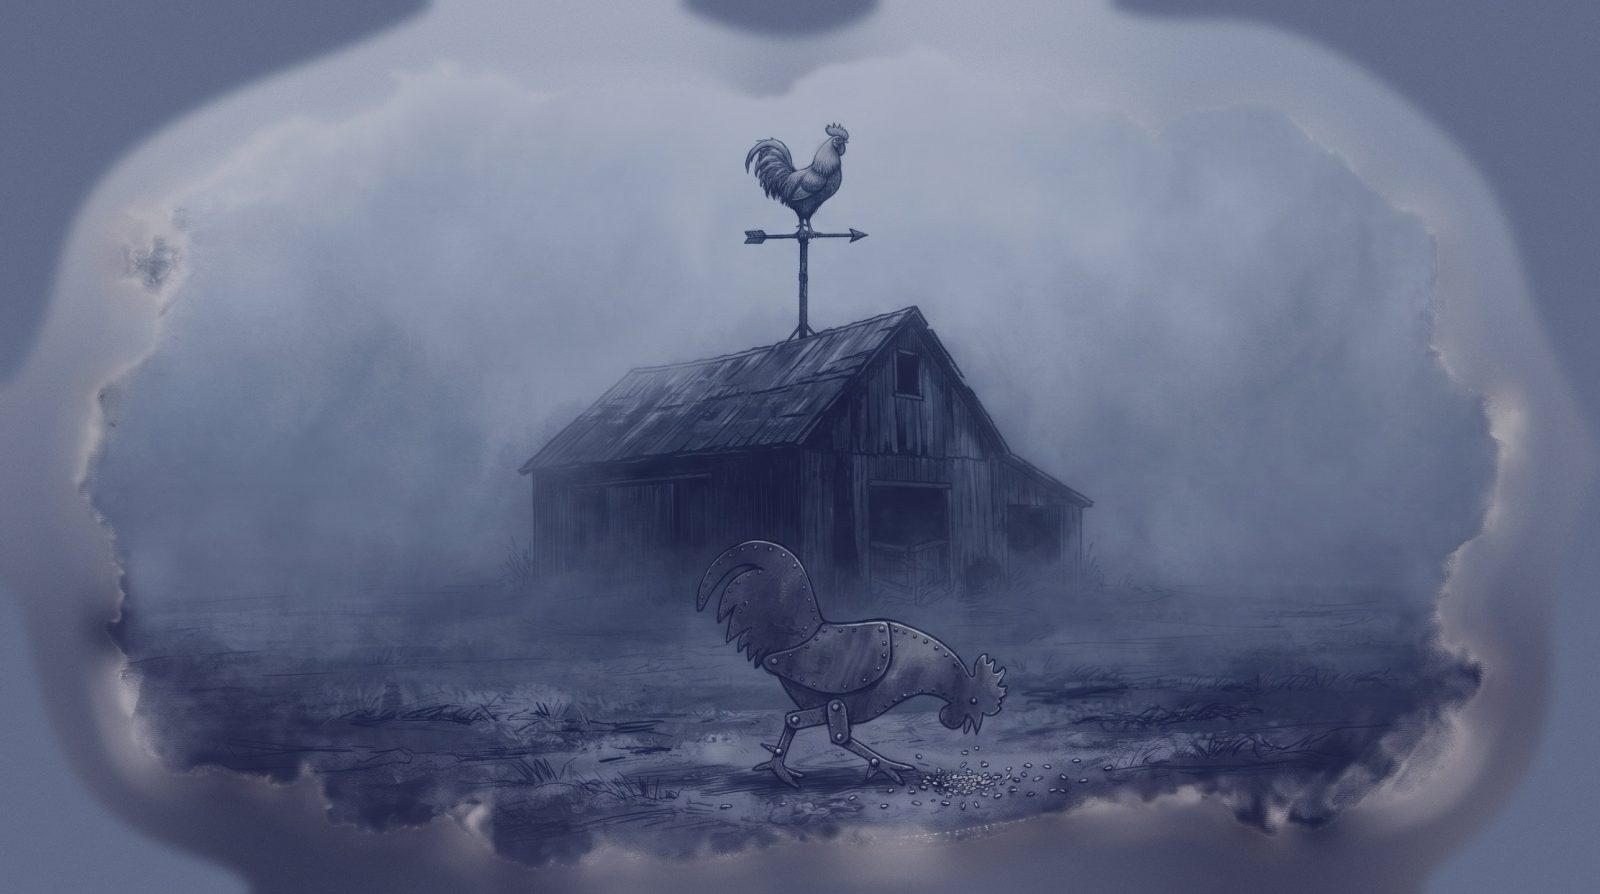
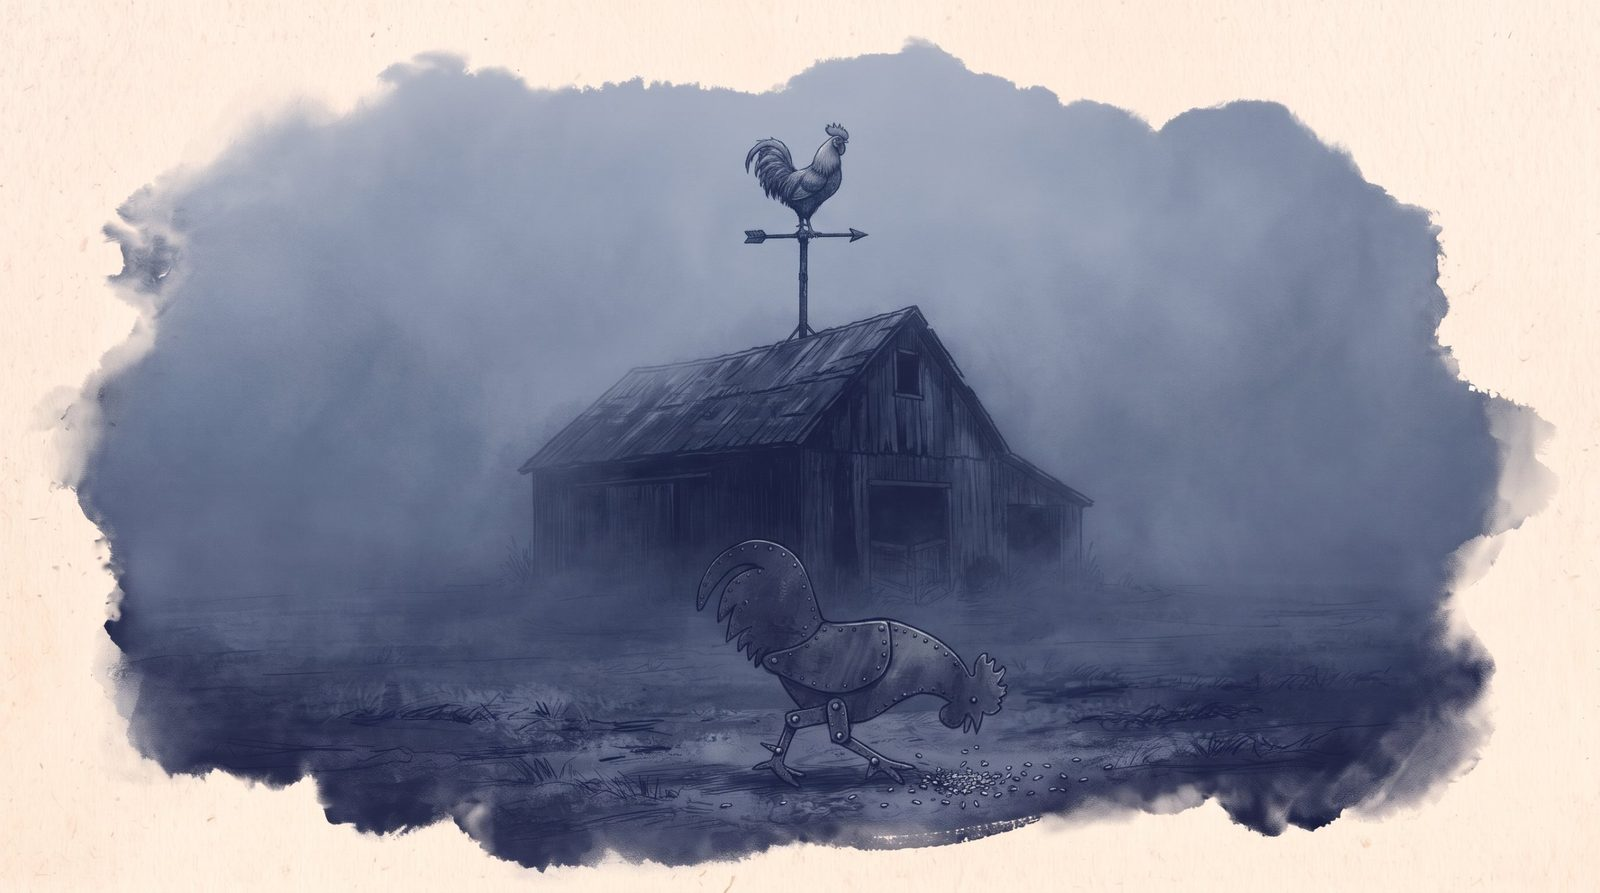
Kopie bez originálu: kohout ve světlém motivu zpět v originále s rozkreslenými okraji, v tmavém varianta -dark.jpg bez krémového lemu
Claude-Session: https://claude.ai/code/session_01B7obWLKHHEWxurZ5a1svnf

diff --git a/src/components/essay/EssayPage.tsx b/src/components/essay/EssayPage.tsx
@@ -35,11 +35,11 @@ type Props = {
   /** Stránka stezky bez schválené eseje: bez doby čtení. */
   pending?: boolean;
   /** Obrázek stezky (zatím jen náhled): široký pás pod hlavičkou, nebo na začátku textu. */
-  hero?: { src: string; alt: string; ink?: string; inkLight?: string; mask?: string };
+  hero?: { src: string; alt: string; dark?: string; ink?: string; inkLight?: string; mask?: string };
   /** Druhý obrázek stezky (náhled): uprostřed textu, před nadpisem nejblíž polovině. */
-  hero2?: { src: string; alt: string; ink?: string; inkLight?: string; mask?: string };
+  hero2?: { src: string; alt: string; dark?: string; ink?: string; inkLight?: string; mask?: string };
   /** Další obrázky stezky (po prvním): rozložené rovnoměrně textem, každý před nadpisem ##. Má přednost před hero2. */
-  heroMore?: { src: string; alt: string; ink?: string; inkLight?: string; mask?: string }[];
+  heroMore?: { src: string; alt: string; dark?: string; ink?: string; inkLight?: string; mask?: string }[];
   /** Skutečná stránka (ne náhled): obrázky jen pod citátem a uprostřed, s maskami. */
   heroLive?: boolean;
 };
@@ -104,7 +104,7 @@ function splitSources(markdown: string): [string, string] {
 }
 
 /** Masky obrázku stezky jako proměnné CSS (fresková maska, v tmavém motivu maska podle tuše). */
-function heroImgProps(h: { ink?: string; inkLight?: string; mask?: string }) {
+function heroImgProps(h: { ink?: string; inkLight?: string; mask?: string }, extraClass?: string) {
   const style: Record<string, string> = {};
   if (h.mask) style['--pv-mask'] = `url("${h.mask}")`;
   if (h.ink) {
@@ -112,7 +112,8 @@ function heroImgProps(h: { ink?: string; inkLight?: string; mask?: string }) {
     // širší maska pro světlý motiv (papír tam multiply schová, maska jen nesmí sníst slabé tahy)
     style['--pv-mask-ink-light'] = `url("${h.inkLight ?? h.ink.replace(/\.png$/, '-light.png')}")`;
   }
-  return { style: style as CSSProperties, className: h.ink ? 'has-ink' : undefined };
+  const cls = [h.ink ? 'has-ink' : '', extraClass ?? ''].filter(Boolean).join(' ');
+  return { style: style as CSSProperties, className: cls || undefined };
 }
 
 export default function EssayPage({ base, markdown, title, kicker, tagline, worlds, trail, pending, hero, hero2, heroMore, heroLive }: Props) {
@@ -310,8 +311,18 @@ export default function EssayPage({ base, markdown, title, kicker, tagline, worl
                       alt={extras[k].alt}
                       decoding="async"
                       loading="lazy"
-                      {...heroImgProps(extras[k])}
+                      {...heroImgProps(extras[k], extras[k].dark ? 'is-light-only' : undefined)}
                     />
+                    {extras[k].dark ? (
+                      <img
+                        className="is-dark-only"
+                        src={extras[k].dark}
+                        alt={extras[k].alt}
+                        decoding="async"
+                        loading="lazy"
+                        style={{ '--pv-mask': `url("${extras[k].mask}")` } as CSSProperties}
+                      />
+                    ) : null}
                   </figure>
                   <ReactMarkdown remarkPlugins={[remarkGfm]} components={mdComponents}>
                     {part}

diff --git a/src/lib/trail-images.ts b/src/lib/trail-images.ts
@@ -8,7 +8,8 @@ import { existsSync, readFileSync } from 'node:fs';
 import { withBase } from './base-url';
 import { TRAIL_SLUGS, type TrailId } from './trails';
 
-export type TrailImage = { src: string; ink?: string; inkLight?: string; mask: string };
+/** dark: volitelná varianta pro tmavý motiv (<soubor>-dark.jpg), když tuš sahá k okraji papíru a krémový lem by v noci prosvítal. */
+export type TrailImage = { src: string; dark?: string; ink?: string; inkLight?: string; mask: string };
 
 /** Putování, která už obrázky mají: počet obrázků (první pod citátem, další rovnoměrně textem). */
 export const READY: Record<TrailId, number> = {
@@ -44,8 +45,10 @@ function versioned(base: string, path: string): string {
 function image(base: string, file: string): TrailImage {
   const ink = `${DIR}/maska/${file.replace(/\.jpg$/, '.png')}`;
   const inkLight = ink.replace(/\.png$/, '-light.png');
+  const dark = `${DIR}/${file.replace(/\.jpg$/, '-dark.jpg')}`;
   return {
     src: versioned(base, `${DIR}/${file}`),
+    dark: existsSync(`public/${dark}`) ? versioned(base, dark) : undefined,
     ink: existsSync(`public/${ink}`) ? versioned(base, ink) : undefined,
     inkLight: existsSync(`public/${inkLight}`) ? versioned(base, inkLight) : undefined,
     mask: withBase(base, `/${DIR}/maska/freska.png`),

diff --git a/src/styles/essay.css b/src/styles/essay.css
@@ -923,3 +923,14 @@ html[data-theme='dark'] .essay-hero--live img.has-ink {
 .essay-hero--mid.essay-hero--live + .essay-chapter {
   margin-top: 0;
 }
+
+/* Obrázek s variantou pro tmavý motiv (<soubor>-dark.jpg, trail-images.ts): ve světlém motivu originál s maskou podle tuše,
+   v tmavém varianta s papírem u okraje přebarveným do mlhy (jinak by krémový lem prosvítal). */
+html[data-theme='dark'] .essay-hero img.is-light-only,
+html:not([data-theme='dark']) .essay-hero img.is-dark-only {
+  display: none;
+}
+
+html[data-theme='dark'] .essay-hero img.is-dark-only {
+  filter: brightness(0.8);
+}

diff --git a/docs/obrazky-putovani.md b/docs/obrazky-putovani.md
@@ -25,7 +25,7 @@ Stav 2026-11-23: styl nalezený po pěti kolech zkoušek (náhled `/putovani/nav
 - Masky: `maska/<slug>-N.png` podle tuše pro tmavý motiv (`python3 scripts/ink-masks.py`, pak zkopírovat z `navrh-obrazku/maska/`, nebo upravit cestu ve skriptu), `maska/freska.png` obecná.
 - Které putování obrázky má: `READY` v `src/lib/trail-images.ts`. Obrázky se ukážou jen u schválené eseje.
 - Rejstřík `/putovani/` má rozvržení karet ve dvou sloupcích s obrázkem nahoře (C, vybráno ze tří variant: A obraz za textem, B střídavé desky). Dokud nemají obrázky všechna putování, stojí vedle karty s obrázkem textové karty.
-- Na webu (2026-11-23): Hra ví, že ji hraješ (městečko na jevišti s roztrženým namalovaným nebem; postavička vylezlá z ilustrace v knize; stín, který vypadl z obrazu na podlahu); Na mrtvole boha (tři: prázdný plášť na trůnu držený provazy davu; trůn, kterým prorůstá bříza; jablko s žebry místo jádřince); Netvor v zrcadle (zatím jeden: stopy ve sněhu, které se z bot mění v tlapy); Mluví už jen mrtví (tři: prázdný kabát, který ukazuje cestu; můra s křídly z deníku; potopená hlava sochy, z níž stoupají listy dopisu k loďce); Uvězněni v kruhu (tři: klíč stočený do kruhu se stínem rovného klíče; vajíčko ve vajíčku; z kouře dohořelé sirky nová sirka); Bohové jako břemeno (katedrála ze žeber, kamenné víčko); Město, které dýchá (domy, které se otáčejí za chodcem; most z dlažby, kořenů, copů a prádla); Dům, ze kterého nejde odejít (měsíc jako zlatá klíčová dírka nad městečkem, okno uprostřed pláně s pokojem uvnitř). Válka, kterou nikdo nevyhraje (tři obrázky: prapory z hejn ptáků, kolotoč z děl, kavalerie z rozbitých hodin se svíčkou v temnu); Pod lhostejnými hvězdami (žebřík opřený o nebe s prázdnými botami a lucernou, gramofon, ze kterého se sypou hvězdy, u táboráku); Kdo za to může? (tři: prázdná rukavice ukazuje na zrcátko a odraz ukazuje zpět na diváka; koberec, pod jehož rohem je jáma se schody a koště z brků; z hranice srolovaných dopisů odplouvá kouř jako spící beránek, 2026-11-25); Kdo se to probudil? (tři: zamlžené zrcadlo nad umyvadlem, v jehož setřeném pruhu je další zrcadlo; dvě stejná křesla v pokoji rozděleném sklem, které prochází mincí na hraně; sklenice s pulcem, jehož stín na zdi jsou chapadla; 2026-11-25); Prokleté dědictví (tři: kolébka s korunou, jejíž stín je rakev, křížek na koruně vyretušovaný; řetěz z praskliny v zemi s otevřeným dětským poutem, hnědý nádech řetězu převedený do indiga; šperkovnice s náhrdelníkem z mléčných zubů; 2026-11-25); Křehká hranice svobodné vůle (tři: koleje shora, které se u výhybky rozdělí a zase spojí kolem kulatého jezírka, takže tvoří oko; prázdný obojek s vodítkem napnutým do mraků; trhací kalendář s prázdnými listy, jeden právě utržený, původně k jinému tématu, majitel ho přidal; 2026-11-25); Ráj, který se nepovedl (tři, poprvé celky místo předmětu, na pokyn majitele velký motiv a paradox: monumentální schodiště, které se v oblouku vrací zpátky do země (titulní, majitel 2026-11-26); nekonečně dlouhý prostřený stůl v poušti, zavátý dunou; vymyšlený zazděný oblouk se sluncem, kolem jehož boku je v dlažbě vyšlapaná pěšina; 2026-11-25); Logo nad troskami (tři, satira: atomový hřib ztuhlý v kancelářskou budovu s otáčecími dveřmi a ostříhaným trávníkem v troskách; hřbitov, kde místo náhrobků stojí parkovací automaty; opuštěný vozík prodavače mraků na provázcích s prázdnými cenovkami pod holým nebem; 2026-11-26); Smích nad propastí (tři: banánová slupka na samé hraně útesu nad propastí; ostnatý plot se strážní věží vyzdobený girlandami a balonky, jeden balonek splasklý na ostnu; prstem nakreslený úsměv na zamlženém okénku bunkru, ze kterého stéká kondenzace; 2026-11-26); Kdo drží kroniku (tři, satira dějin: jezdecká socha bez hlavy, jeřáb spouští novou hlavu a vedle stojí regál s osmi různými náhradními hlavami; stohy na poli ze skartovaného papíru a skartovačka; psací stroj, jehož papír plynule přechází v cestu krajinou, s ukazatelem ve směru papíru (nakonec nová verze od majitele, kde papír na cestu navazuje sám); 2026-11-26); Kopie bez originálu (tři: dva stejné měsíce nad jezerem, které odráží jen jeden, uprostřed (odraz ručně nahrazený zrcadlenou kopií měsíce, aby seděl); pampeliška, od které místo semínek odlétají malé celé pampelišky a od nich ještě menší; živý kohout ztuhlý na korouhvi a tmavý nýtovaný plechový kohout s klouby v nohou zobající na dvoře (třetí verze, ve scéně tma a hustá mlha; korouhev se šipkou, bez ramen se světovými stranami; tuš sahala skoro k okraji a krémový lem v tmavém motivu prosvítal, proto papír u okraje ručně přebarvený do mlhy a obrázek nemá masku podle tuše, jen freskovou); 2026-11-26). Postup: 5 motivů, vybrat 2. **Motivy: surrealismus a neobvyklé kompozice, klidně velké měřítko a zachycený pohyb (Magritte, Dalí), neobvyklé spojení předmětů (v duchu Magritta), jen lehce doslovné** — první kolo s doslovnými motivy (tapeta, dveře, kolébka) majitel zamítl jako nenápadité. Do promptu řádek `Mood: subtle surrealism in the spirit of Magritte: one unexpected combination, quiet and uncanny, never literal or explanatory. Rich in discoverable detail: several unexpected secondary motifs are woven into the main forms, so the viewer keeps finding new things on a second look.` Po přidání prvního obrázku obnovit kartu pro sdílení: `npm run og -- <slug> putovani` (fonty a Chromium viz CLAUDE.md). Masky: `python3 scripts/ink-masks.py public/putovani-obrazky/<slug>-1.jpg …`; když je světlý papír uprostřed součástí motivu (mezera mezi konci mostu), přidej `--fill`. Skript dělá dvě masky: `<soubor>.png` pro tmavý motiv a širokou `<soubor>-light.png` pro světlý (papír tam schová multiply a lehké vybělení `brightness(1.06) saturate(0.8)`, maska nesmí zamlžit slabé tahy; majitel 2026-11-23). Ve světlém motivu se v eseji kresba ořezává jen širokou maskou (fresková by ořízla tahy štětce nahoře a stopy u spodního okraje); v tmavém motivu (esej i rejstřík) jen fresková maska: tvar je vždy **zvlněný obdélník do ztracena**, nikdy vykrojený podle skvrn tuše (majitel 2026-11-23). Zkoušený okraj podle tahů štětce se světlým lemem majitel zamítl jako „příliš“: v tmavém motivu okraje nebudou tak působivé jako ve světlém a je to tak správně; v rejstříku zůstává i fresková (obrázek je tam oříznutý na 3 : 2).
+- Na webu (2026-11-23): Hra ví, že ji hraješ (městečko na jevišti s roztrženým namalovaným nebem; postavička vylezlá z ilustrace v knize; stín, který vypadl z obrazu na podlahu); Na mrtvole boha (tři: prázdný plášť na trůnu držený provazy davu; trůn, kterým prorůstá bříza; jablko s žebry místo jádřince); Netvor v zrcadle (zatím jeden: stopy ve sněhu, které se z bot mění v tlapy); Mluví už jen mrtví (tři: prázdný kabát, který ukazuje cestu; můra s křídly z deníku; potopená hlava sochy, z níž stoupají listy dopisu k loďce); Uvězněni v kruhu (tři: klíč stočený do kruhu se stínem rovného klíče; vajíčko ve vajíčku; z kouře dohořelé sirky nová sirka); Bohové jako břemeno (katedrála ze žeber, kamenné víčko); Město, které dýchá (domy, které se otáčejí za chodcem; most z dlažby, kořenů, copů a prádla); Dům, ze kterého nejde odejít (měsíc jako zlatá klíčová dírka nad městečkem, okno uprostřed pláně s pokojem uvnitř). Válka, kterou nikdo nevyhraje (tři obrázky: prapory z hejn ptáků, kolotoč z děl, kavalerie z rozbitých hodin se svíčkou v temnu); Pod lhostejnými hvězdami (žebřík opřený o nebe s prázdnými botami a lucernou, gramofon, ze kterého se sypou hvězdy, u táboráku); Kdo za to může? (tři: prázdná rukavice ukazuje na zrcátko a odraz ukazuje zpět na diváka; koberec, pod jehož rohem je jáma se schody a koště z brků; z hranice srolovaných dopisů odplouvá kouř jako spící beránek, 2026-11-25); Kdo se to probudil? (tři: zamlžené zrcadlo nad umyvadlem, v jehož setřeném pruhu je další zrcadlo; dvě stejná křesla v pokoji rozděleném sklem, které prochází mincí na hraně; sklenice s pulcem, jehož stín na zdi jsou chapadla; 2026-11-25); Prokleté dědictví (tři: kolébka s korunou, jejíž stín je rakev, křížek na koruně vyretušovaný; řetěz z praskliny v zemi s otevřeným dětským poutem, hnědý nádech řetězu převedený do indiga; šperkovnice s náhrdelníkem z mléčných zubů; 2026-11-25); Křehká hranice svobodné vůle (tři: koleje shora, které se u výhybky rozdělí a zase spojí kolem kulatého jezírka, takže tvoří oko; prázdný obojek s vodítkem napnutým do mraků; trhací kalendář s prázdnými listy, jeden právě utržený, původně k jinému tématu, majitel ho přidal; 2026-11-25); Ráj, který se nepovedl (tři, poprvé celky místo předmětu, na pokyn majitele velký motiv a paradox: monumentální schodiště, které se v oblouku vrací zpátky do země (titulní, majitel 2026-11-26); nekonečně dlouhý prostřený stůl v poušti, zavátý dunou; vymyšlený zazděný oblouk se sluncem, kolem jehož boku je v dlažbě vyšlapaná pěšina; 2026-11-25); Logo nad troskami (tři, satira: atomový hřib ztuhlý v kancelářskou budovu s otáčecími dveřmi a ostříhaným trávníkem v troskách; hřbitov, kde místo náhrobků stojí parkovací automaty; opuštěný vozík prodavače mraků na provázcích s prázdnými cenovkami pod holým nebem; 2026-11-26); Smích nad propastí (tři: banánová slupka na samé hraně útesu nad propastí; ostnatý plot se strážní věží vyzdobený girlandami a balonky, jeden balonek splasklý na ostnu; prstem nakreslený úsměv na zamlženém okénku bunkru, ze kterého stéká kondenzace; 2026-11-26); Kdo drží kroniku (tři, satira dějin: jezdecká socha bez hlavy, jeřáb spouští novou hlavu a vedle stojí regál s osmi různými náhradními hlavami; stohy na poli ze skartovaného papíru a skartovačka; psací stroj, jehož papír plynule přechází v cestu krajinou, s ukazatelem ve směru papíru (nakonec nová verze od majitele, kde papír na cestu navazuje sám); 2026-11-26); Kopie bez originálu (tři: dva stejné měsíce nad jezerem, které odráží jen jeden, uprostřed (odraz ručně nahrazený zrcadlenou kopií měsíce, aby seděl); pampeliška, od které místo semínek odlétají malé celé pampelišky a od nich ještě menší; živý kohout ztuhlý na korouhvi a tmavý nýtovaný plechový kohout s klouby v nohou zobající na dvoře (třetí verze, ve scéně tma a hustá mlha; korouhev se šipkou, bez ramen se světovými stranami; tuš sahala skoro k okraji a krémový lem v tmavém motivu prosvítal, proto má variantu pro tmavý motiv `kopie-bez-originalu-3-dark.jpg` s papírem u okraje přebarveným do mlhy; ve světlém motivu zůstává originál s maskou podle tuše. Obecně: obrázek může mít `<soubor>-dark.jpg`, `trail-images.ts` ho najde sám a esej ho ukáže jen v tmavém motivu); 2026-11-26). Postup: 5 motivů, vybrat 2. **Motivy: surrealismus a neobvyklé kompozice, klidně velké měřítko a zachycený pohyb (Magritte, Dalí), neobvyklé spojení předmětů (v duchu Magritta), jen lehce doslovné** — první kolo s doslovnými motivy (tapeta, dveře, kolébka) majitel zamítl jako nenápadité. Do promptu řádek `Mood: subtle surrealism in the spirit of Magritte: one unexpected combination, quiet and uncanny, never literal or explanatory. Rich in discoverable detail: several unexpected secondary motifs are woven into the main forms, so the viewer keeps finding new things on a second look.` Po přidání prvního obrázku obnovit kartu pro sdílení: `npm run og -- <slug> putovani` (fonty a Chromium viz CLAUDE.md). Masky: `python3 scripts/ink-masks.py public/putovani-obrazky/<slug>-1.jpg …`; když je světlý papír uprostřed součástí motivu (mezera mezi konci mostu), přidej `--fill`. Skript dělá dvě masky: `<soubor>.png` pro tmavý motiv a širokou `<soubor>-light.png` pro světlý (papír tam schová multiply a lehké vybělení `brightness(1.06) saturate(0.8)`, maska nesmí zamlžit slabé tahy; majitel 2026-11-23). Ve světlém motivu se v eseji kresba ořezává jen širokou maskou (fresková by ořízla tahy štětce nahoře a stopy u spodního okraje); v tmavém motivu (esej i rejstřík) jen fresková maska: tvar je vždy **zvlněný obdélník do ztracena**, nikdy vykrojený podle skvrn tuše (majitel 2026-11-23). Zkoušený okraj podle tahů štětce se světlým lemem majitel zamítl jako „příliš“: v tmavém motivu okraje nebudou tak působivé jako ve světlém a je to tak správně; v rejstříku zůstává i fresková (obrázek je tam oříznutý na 3 : 2).
 
 ## Jak generovat
 
